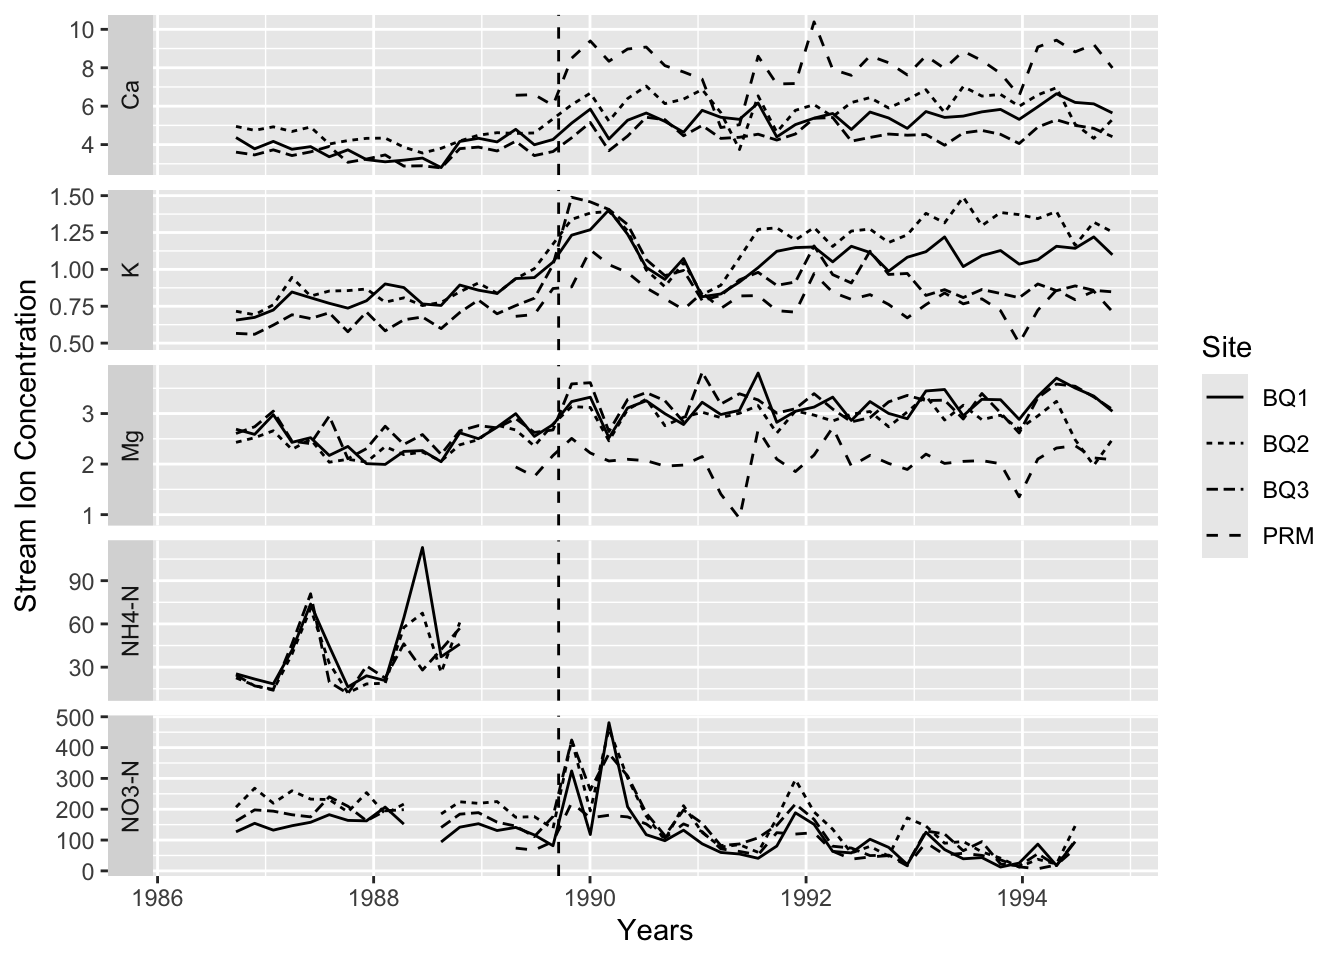
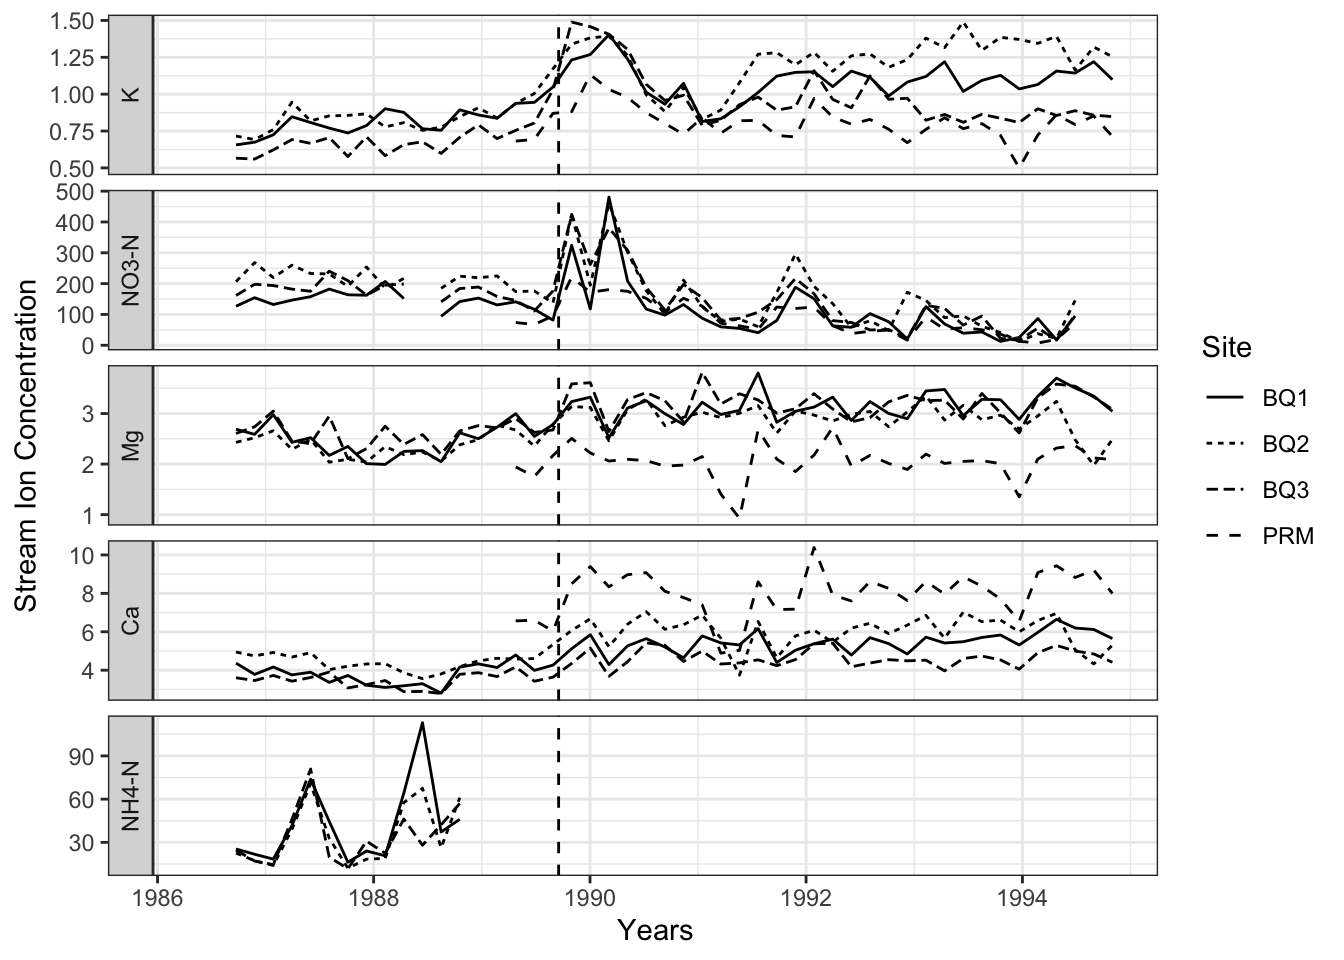
reordered facets and added ggplot theme

diff --git a/docs/paper.html b/docs/paper.html
@@ -50,18 +50,20 @@ ul.task-list li input[type="checkbox"] {
 
 
 
+<section id="stream-chemistry-changes-in-puerto-rico-before-and-after-hurricane-hugo" class="level2">
+<h2 class="anchored" data-anchor-id="stream-chemistry-changes-in-puerto-rico-before-and-after-hurricane-hugo">Stream chemistry changes in Puerto Rico before and after Hurricane Hugo</h2>
 <section id="background" class="level3">
 <h3 class="anchored" data-anchor-id="background">Background</h3>
-<p>This project takes data on nutrient concentrations in several streams in the Luquillo mountain region in Puerto Rico from 1986-1994. The purpose is to analyze changes over time in these nutrient concentrations before and after 1989’s hurricane and plot it.</p>
+<p>This project takes data on nutrient concentrations in several streams in the Luquillo mountain region in Puerto Rico from 1986-1994. The purpose is to analyze changes over time in these nutrient concentrations before and after 1989’s hurricane by generating nutrient concentration time-series plots.</p>
 </section>
 <section id="data" class="level3">
 <h3 class="anchored" data-anchor-id="data">Data</h3>
 <p>CSV files from: <a href="https://doi.org/10.6073/PASTA/F31349BEBDC304F758718F4798D25458">McDowell, William H., and USDA Forest Service. International Institute Of Tropical Forestry (IITF). 2024.</a>.<br>
-Data downloaded and stored within the repository.</p>
+Data downloaded and stored locally within the repository.</p>
 </section>
 <section id="methods" class="level3">
 <h3 class="anchored" data-anchor-id="methods">Methods</h3>
-<p>Create a “moving average” function so that we can create moving window averages for the stream chemistry data. Clean the data files by selecting only the relevant columns and adding a “site” column to keep track of sites once the data files are merged. Call the “moving_average” function on each dataset. Merge the moving_average output files into one larger data frame. Pivot to create “nutrient” and “concentration” columns.</p>
+<p>We created a “moving average” function in order to calculate averages for stream ion concentrations in 9-week windows, focusing specifically on the data for K, Ca, Mg, NH4-N, and NO3-N. These average values were merged into a larger dataset which was then plotted on year vs ion concentration axes, sorted by ion.</p>
 </section>
 <section id="results" class="level3">
 <h3 class="anchored" data-anchor-id="results">Results</h3>
@@ -74,7 +76,8 @@ Data downloaded and stored within the repository.</p>
 </div>
 </div>
 </div>
-<p>This graph shows nutrient concentrations over time in the four stream sites between 1986 and 1995. The figure contains one plot for each nutrient (Ca, Mg, K, NH4-N, and NO3-N). Line types denote different sites. The vertical dashed line in late 1989 repesents the timing of hurricane hugo.</p>
+<p>This graph shows nutrient concentrations over time in the four stream sites between 1986 and 1995. The figure contains one plot for each nutrient (Ca, Mg, K, NH4-N, and NO3-N). Line types denote different sites. The vertical dashed line in late 1989 repesents the timing of hurricane Hugo.</p>
+</section>
 </section>
 
 </main>
